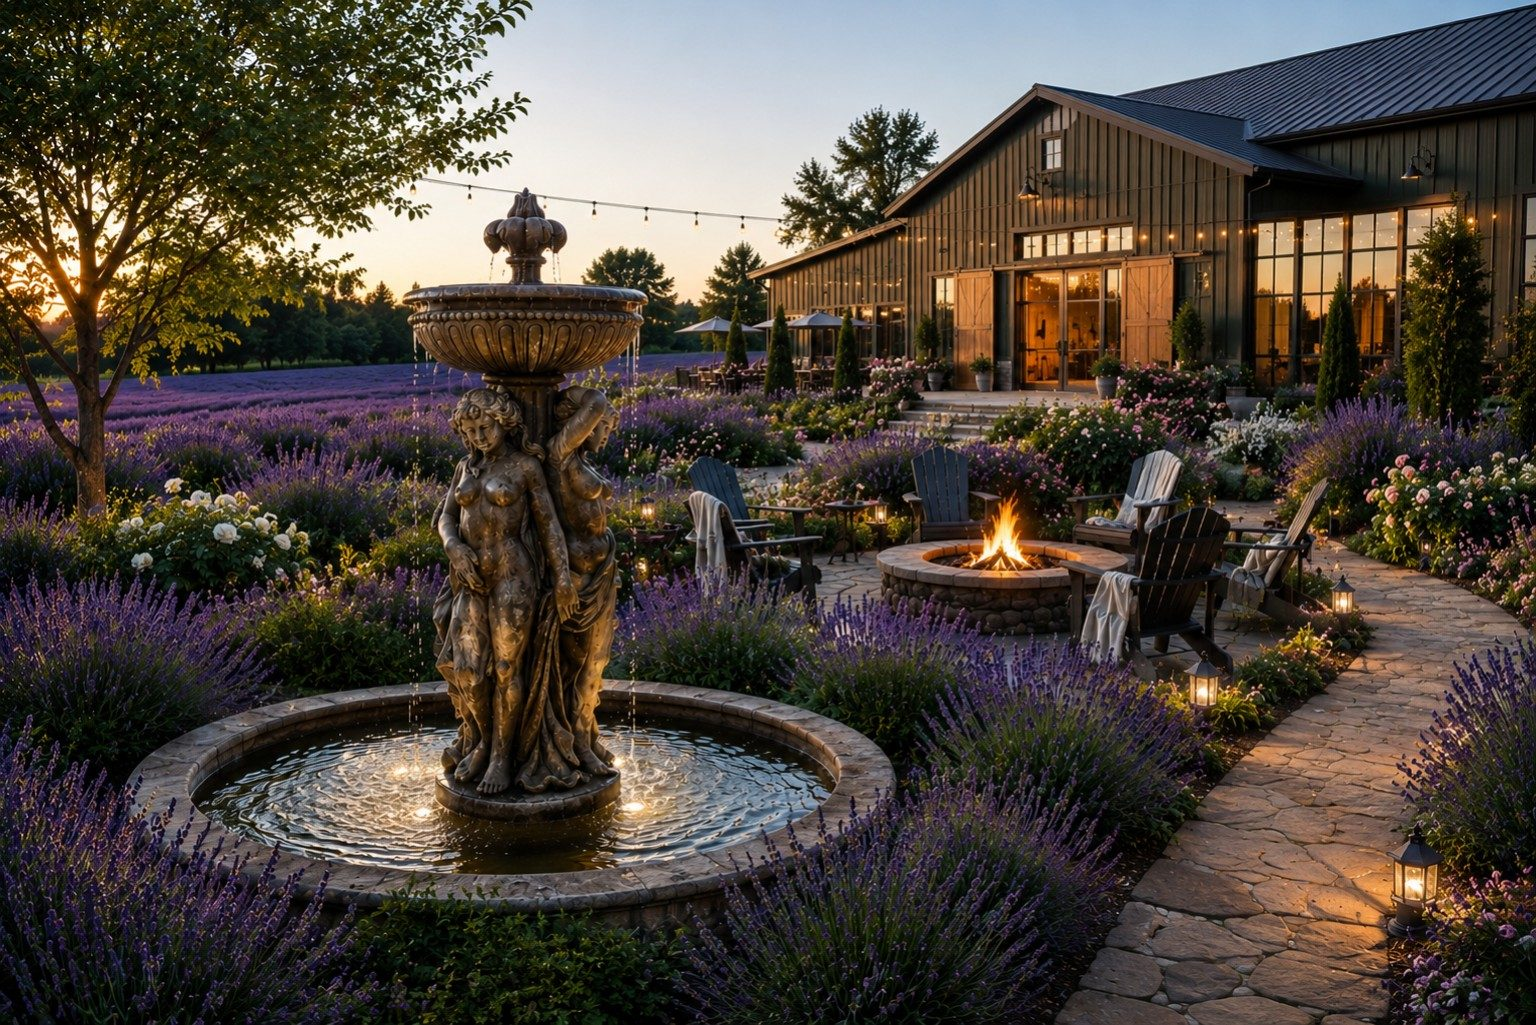
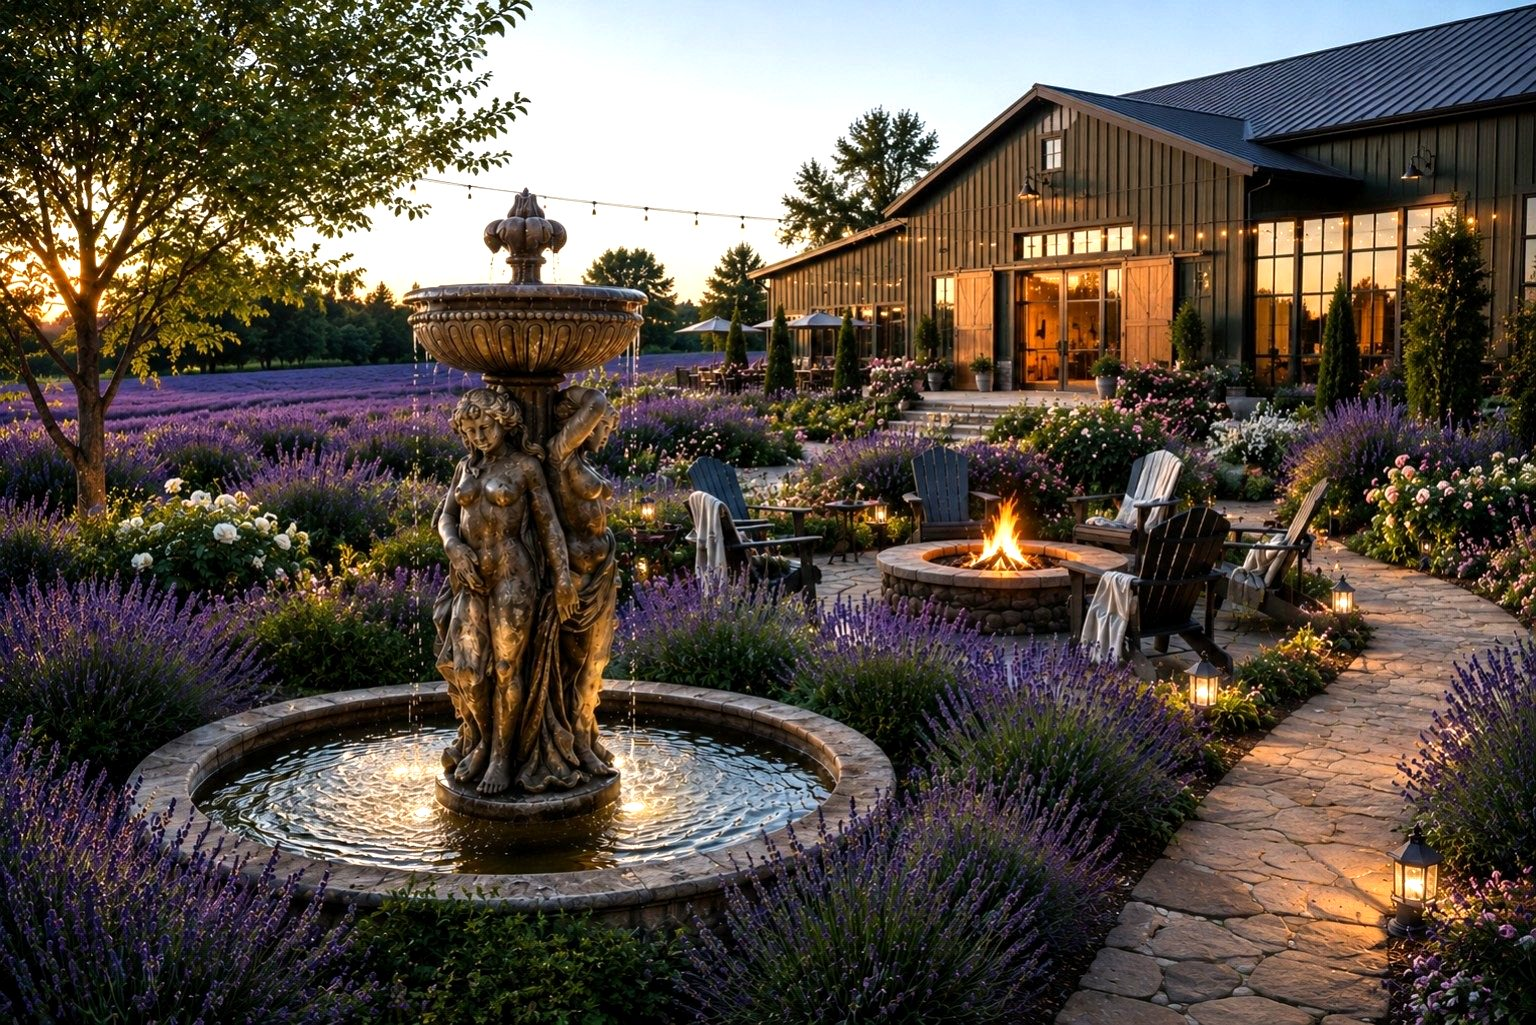
Scot's scanned corrections (10/12 2:15 PM): brighter Approach marina, PF coach-site image replaces sketch, home marina card photo, left-side hero shadow, lavender brightened + recaptioned, new tech description

diff --git a/index.html b/index.html
@@ -15,7 +15,7 @@
 <link rel="preconnect" href="https://fonts.googleapis.com">
 <link rel="preconnect" href="https://fonts.gstatic.com" crossorigin>
 <link href="https://fonts.googleapis.com/css2?family=Cormorant+Garamond:ital,wght@0,500;0,600;1,500&family=Inter:wght@400;500;600&display=swap" rel="stylesheet">
-<link rel="stylesheet" href="css/style.css?v=5">
+<link rel="stylesheet" href="css/style.css?v=6">
 </head>
 <body>
 <a class="sr-only" href="#main">Skip to content</a>
@@ -37,7 +37,7 @@
 </header>
 <main id="main">
 
-<section class="hero">
+<section class="hero hero-left">
   <div class="hero-media"><img src="images/hero-waterfront-ai.jpg" alt="Conceptual illustration of a boutique waterfront apartment building with boats at its private dock" fetchpriority="high"></div>
   <div class="wrap">
     <p class="eyebrow">Scot Kenney Acquisitions</p>
@@ -64,11 +64,11 @@
         <div class="body"><h3>Multifamily &amp; Income Properties</h3><p>From boutique properties to larger portfolios, we evaluate each acquisition on its merits, without arbitrary unit-count limits.</p></div>
       </article>
       <article class="focus-card reveal">
-        <div class="img type" aria-hidden="true"><svg viewBox="0 0 64 64"><g fill="none" stroke="currentColor" stroke-width="1.6" stroke-linecap="round" stroke-linejoin="round"><path d="M32 10v34"/><circle cx="32" cy="8" r="3"/><path d="M24 18h16"/><path d="M14 36c2 9 9 14 18 14s16-5 18-14"/><path d="M10 36l4 0M50 36l4 0"/><path d="M6 58c4 0 4-3 8-3s4 3 8 3 4-3 8-3 4 3 8 3 4-3 8-3 4 3 8 3 4-3 8-3"/></g></svg></div>
+        <div class="img"><img src="https://images.unsplash.com/photo-1730402733045-269e1b446856?auto=format&fit=crop&w=1200&q=70" alt="Aerial view of a marina beside waterfront residential buildings" loading="lazy"><span class="img-tag">Illustrative imagery</span></div>
         <div class="body"><h3>Waterfront &amp; Marina Opportunities</h3><p>Residential properties, dockage, marina-related assets, and other waterfront locations with multiple potential revenue sources.</p></div>
       </article>
       <article class="focus-card reveal">
-        <div class="img"><img src="images/owner-motorcoach-clubhouse-concept.jpg" alt="Conceptual illustration of a luxury motorcoach resort with a three-story black-glass clubhouse and pool" loading="lazy"><span class="img-tag">Conceptual illustration</span></div>
+        <div class="img"><img src="images/owner-motorcoach-clubhouse-concept.jpg" alt="Conceptual illustration of a luxury motorcoach resort with a three-story black-glass clubhouse and pool" loading="lazy"><span class="img-tag">Concept illustration</span></div>
         <div class="body"><h3>Distinctive RV Resorts</h3><p>Well-planned motorcoach and RV destinations emphasizing attractive environments, thoughtful amenities, and compelling guest experiences&mdash;not ordinary storage lots.</p></div>
       </article>
       <article class="focus-card reveal">

diff --git a/property-focus/index.html b/property-focus/index.html
@@ -15,7 +15,7 @@
 <link rel="preconnect" href="https://fonts.googleapis.com">
 <link rel="preconnect" href="https://fonts.gstatic.com" crossorigin>
 <link href="https://fonts.googleapis.com/css2?family=Cormorant+Garamond:ital,wght@0,500;0,600;1,500&family=Inter:wght@400;500;600&display=swap" rel="stylesheet">
-<link rel="stylesheet" href="../css/style.css?v=5">
+<link rel="stylesheet" href="../css/style.css?v=6">
 </head>
 <body>
 <a class="sr-only" href="#main">Skip to content</a>
@@ -66,12 +66,8 @@
       <div class="measure">
         <h2>Distinctive RV &amp; Motorcoach Destinations</h2>
         <p>We evaluate distinctive RV and motorcoach destinations where design, landscaping, hospitality, and amenities could create a compelling guest experience and additional revenue opportunities. As one example of our founder&rsquo;s creative approach, Scot Kenney conceived a luxury motorcoach resort with a dramatic three-story black-glass clubhouse, private-site amenities, dining, and cultural events; an architect prepared an illustration of his concept. This was a design concept, not a completed development.</p>
-        <div class="concept small">
-          <figure>
-            <div class="frame"><img src="../images/concept-motorcoach-resort.jpg" alt="Architect's concept illustration of a luxury motorcoach resort clubhouse" loading="lazy"></div>
-            <figcaption><strong>Concept illustration</strong>Original luxury motorcoach resort concept &mdash; envisioned by Scot Kenney; architectural illustration. Not a completed development.</figcaption>
-          </figure>
-        </div>
+        <div class="pf-media" style="margin-top:1.6rem;max-width:560px"><img src="../images/motorcoach-site-illustrative.jpg" alt="Illustrative image of a luxury Class A motorcoach on a landscaped private site with a cabana and plunge pool" loading="lazy"><span class="img-tag">Illustrative imagery</span></div>
+        <p class="muted" style="font-size:.88rem;margin-top:.6rem">Illustrative imagery; not a completed Scot Kenney Acquisitions project.</p>
       </div>
     </div>
 
@@ -84,7 +80,7 @@
       </div>
       <div>
         <h2>Next-Generation Technology Communities</h2>
-        <p>Scot Kenney Acquisitions is exploring an innovative residential community concept envisioned for professionals in the artificial intelligence and technology industries. The concept aims to address distinctive lifestyle preferences and residential needs we believe are underserved by conventional developments, with potential adaptability to multiple markets.</p>
+        <p>Exploring distinctive, technology-focused residential communities designed around the evolving lifestyles and requirements of professionals in artificial intelligence and other advanced industries.</p>
       </div>
     </div>
 

diff --git a/about/index.html b/about/index.html
@@ -15,7 +15,7 @@
 <link rel="preconnect" href="https://fonts.googleapis.com">
 <link rel="preconnect" href="https://fonts.gstatic.com" crossorigin>
 <link href="https://fonts.googleapis.com/css2?family=Cormorant+Garamond:ital,wght@0,500;0,600;1,500&family=Inter:wght@400;500;600&display=swap" rel="stylesheet">
-<link rel="stylesheet" href="../css/style.css?v=5">
+<link rel="stylesheet" href="../css/style.css?v=6">
 </head>
 <body>
 <a class="sr-only" href="#main">Skip to content</a>
@@ -64,8 +64,8 @@
       <h2>Creative Vision. Real Estate Opportunity.</h2>
     </div>
     <figure class="feature reveal">
-      <div class="split-media"><img src="../images/owner-blackfoot-lavender-retreat-concept.jpg" alt="Conceptual rendering of the Blackfoot Lavender Retreat: lavender fields, a fountain, fire pit and a dark board-and-batten event barn at dusk" loading="lazy"><span class="img-tag">Conceptual rendering</span></div>
-      <figcaption>Blackfoot Lavender Retreat &mdash; conceptual rendering. This is a rendering, not a photograph of completed work.</figcaption>
+      <div class="split-media"><img src="../images/owner-blackfoot-lavender-retreat-concept.jpg" alt="Conceptual rendering of lavender fields, a fountain, a fire pit and a barn-style building at dusk" loading="lazy"><span class="img-tag">Conceptual rendering</span></div>
+      <figcaption>Conceptual rendering: an illustrative vision of transforming land. Not a photograph of a completed company development.</figcaption>
     </figure>
   </div>
 </section>

diff --git a/css/style.css b/css/style.css
@@ -297,3 +297,12 @@ h3 { font-size: clamp(1.45rem, 2.2vw, 1.8rem); }
 .focus-card .img.type svg { width: 34%; height: auto; opacity: .9; }
 .feature { margin: 0; }
 .feature figcaption { margin-top: .8rem; font-size: .88rem; color: var(--ink-soft); }
+
+/* Scan corrections (Oct 12, 2:15 PM) */
+/* Home hero: restrained left-side shadow only, image stays bright */
+.hero.hero-left::after { background: linear-gradient(90deg, rgba(10,22,38,.75) 0%, rgba(10,22,38,.58) 40%, rgba(10,22,38,.2) 62%, rgba(10,22,38,0) 78%), linear-gradient(0deg, rgba(10,22,38,.35) 0%, rgba(10,22,38,0) 30%); }
+@media (max-width: 860px) { .hero.hero-left::after { background: linear-gradient(180deg, rgba(10,22,38,.25) 0%, rgba(10,22,38,.55) 40%, rgba(10,22,38,.78) 100%); } }
+/* Approach: bright marina, localized gradient behind the headline */
+.page-head.bright .hero-media img { filter: brightness(1.12) contrast(1.08) saturate(1.12); }
+.page-head.bright::after { background: linear-gradient(90deg, rgba(10,22,38,.62) 0%, rgba(10,22,38,.28) 40%, rgba(10,22,38,0) 68%), linear-gradient(0deg, rgba(10,22,38,.35) 0%, rgba(10,22,38,0) 45%); }
+@media (max-width: 860px) { .page-head.bright::after { background: linear-gradient(0deg, rgba(10,22,38,.7) 0%, rgba(10,22,38,.3) 55%, rgba(10,22,38,.1) 100%); } }

diff --git a/approach/index.html b/approach/index.html
@@ -15,7 +15,7 @@
 <link rel="preconnect" href="https://fonts.googleapis.com">
 <link rel="preconnect" href="https://fonts.gstatic.com" crossorigin>
 <link href="https://fonts.googleapis.com/css2?family=Cormorant+Garamond:ital,wght@0,500;0,600;1,500&family=Inter:wght@400;500;600&display=swap" rel="stylesheet">
-<link rel="stylesheet" href="../css/style.css?v=5">
+<link rel="stylesheet" href="../css/style.css?v=6">
 </head>
 <body>
 <a class="sr-only" href="#main">Skip to content</a>
@@ -37,7 +37,7 @@
 </header>
 <main id="main">
 
-<section class="page-head">
+<section class="page-head bright">
   <div class="hero-media"><img src="../images/marina-aerial.jpg" alt="Aerial view of a marina with boats at the docks"></div>
   <div class="wrap">
     <p class="eyebrow">Approach</p>

diff --git a/contact/index.html b/contact/index.html
@@ -15,7 +15,7 @@
 <link rel="preconnect" href="https://fonts.googleapis.com">
 <link rel="preconnect" href="https://fonts.gstatic.com" crossorigin>
 <link href="https://fonts.googleapis.com/css2?family=Cormorant+Garamond:ital,wght@0,500;0,600;1,500&family=Inter:wght@400;500;600&display=swap" rel="stylesheet">
-<link rel="stylesheet" href="../css/style.css?v=5">
+<link rel="stylesheet" href="../css/style.css?v=6">
 </head>
 <body>
 <a class="sr-only" href="#main">Skip to content</a>

diff --git a/website-notice/index.html b/website-notice/index.html
@@ -15,7 +15,7 @@
 <link rel="preconnect" href="https://fonts.googleapis.com">
 <link rel="preconnect" href="https://fonts.gstatic.com" crossorigin>
 <link href="https://fonts.googleapis.com/css2?family=Cormorant+Garamond:ital,wght@0,500;0,600;1,500&family=Inter:wght@400;500;600&display=swap" rel="stylesheet">
-<link rel="stylesheet" href="../css/style.css?v=5">
+<link rel="stylesheet" href="../css/style.css?v=6">
 </head>
 <body>
 <a class="sr-only" href="#main">Skip to content</a>

diff --git a/404.html b/404.html
@@ -15,7 +15,7 @@
 <link rel="preconnect" href="https://fonts.googleapis.com">
 <link rel="preconnect" href="https://fonts.gstatic.com" crossorigin>
 <link href="https://fonts.googleapis.com/css2?family=Cormorant+Garamond:ital,wght@0,500;0,600;1,500&family=Inter:wght@400;500;600&display=swap" rel="stylesheet">
-<link rel="stylesheet" href="/css/style.css?v=5">
+<link rel="stylesheet" href="/css/style.css?v=6">
 </head>
 <body>
 <a class="sr-only" href="#main">Skip to content</a>

diff --git a/tools/build_pages.py b/tools/build_pages.py
@@ -23,6 +23,8 @@ IMG = {
     "rv":          "images/owner-motorcoach-clubhouse-concept.jpg",      # owner-supplied Image A
     "residential": "images/concept-community-entrance.jpg",              # owner-supplied Vue entrance rendering
     "approach":    "images/marina-aerial.jpg",                           # owner's original Expertise-page marina aerial
+    "marina":      img("1730402733045-269e1b446856", 1200),             # home waterfront card (scan item 3)
+    "coachsite":   "images/motorcoach-site-illustrative.jpg",            # PF RV image (scan item 2)
     "lavender":    "images/owner-blackfoot-lavender-retreat-concept.jpg",# owner-supplied Image B
 }
 def P(r, key):
@@ -58,7 +60,7 @@ def head(r, title, desc, current):
 <link rel="preconnect" href="https://fonts.googleapis.com">
 <link rel="preconnect" href="https://fonts.gstatic.com" crossorigin>
 <link href="https://fonts.googleapis.com/css2?family=Cormorant+Garamond:ital,wght@0,500;0,600;1,500&family=Inter:wght@400;500;600&display=swap" rel="stylesheet">
-<link rel="stylesheet" href="{r}css/style.css?v=5">
+<link rel="stylesheet" href="{r}css/style.css?v=6">
 </head>
 <body>
 <a class="sr-only" href="#main">Skip to content</a>
@@ -139,7 +141,7 @@ def home():
     r = ""
     h = head(r, "Home", "Scot Kenney Acquisitions identifies distinctive real estate opportunities where thoughtful acquisitions, operational improvements, and creative development strategies may unlock long-term value.", "")
     body = f"""
-<section class="hero">
+<section class="hero hero-left">
   <div class="hero-media"><img src="{P(r, 'hero')}" alt="Conceptual illustration of a boutique waterfront apartment building with boats at its private dock" fetchpriority="high"></div>
   <div class="wrap">
     <p class="eyebrow">Scot Kenney Acquisitions</p>
@@ -166,11 +168,11 @@ def home():
         <div class="body"><h3>Multifamily &amp; Income Properties</h3><p>From boutique properties to larger portfolios, we evaluate each acquisition on its merits, without arbitrary unit-count limits.</p></div>
       </article>
       <article class="focus-card reveal">
-        <div class="img type" aria-hidden="true"><svg viewBox="0 0 64 64"><g fill="none" stroke="currentColor" stroke-width="1.6" stroke-linecap="round" stroke-linejoin="round"><path d="M32 10v34"/><circle cx="32" cy="8" r="3"/><path d="M24 18h16"/><path d="M14 36c2 9 9 14 18 14s16-5 18-14"/><path d="M10 36l4 0M50 36l4 0"/><path d="M6 58c4 0 4-3 8-3s4 3 8 3 4-3 8-3 4 3 8 3 4-3 8-3 4 3 8 3 4-3 8-3"/></g></svg></div>
+        <div class="img"><img src="{P(r, 'marina')}" alt="Aerial view of a marina beside waterfront residential buildings" loading="lazy"><span class="img-tag">Illustrative imagery</span></div>
         <div class="body"><h3>Waterfront &amp; Marina Opportunities</h3><p>Residential properties, dockage, marina-related assets, and other waterfront locations with multiple potential revenue sources.</p></div>
       </article>
       <article class="focus-card reveal">
-        <div class="img"><img src="{P(r, 'rv')}" alt="Conceptual illustration of a luxury motorcoach resort with a three-story black-glass clubhouse and pool" loading="lazy"><span class="img-tag">Conceptual illustration</span></div>
+        <div class="img"><img src="{P(r, 'rv')}" alt="Conceptual illustration of a luxury motorcoach resort with a three-story black-glass clubhouse and pool" loading="lazy"><span class="img-tag">Concept illustration</span></div>
         <div class="body"><h3>Distinctive RV Resorts</h3><p>Well-planned motorcoach and RV destinations emphasizing attractive environments, thoughtful amenities, and compelling guest experiences&mdash;not ordinary storage lots.</p></div>
       </article>
       <article class="focus-card reveal">
@@ -213,7 +215,7 @@ def approach():
     r = "../"
     h = head(r, "Approach", "An opportunity-driven acquisition philosophy: identify, underwrite, structure, execute, reassess.", "approach/")
     body = f"""
-<section class="page-head">
+<section class="page-head bright">
   <div class="hero-media"><img src="{P(r, 'approach')}" alt="Aerial view of a marina with boats at the docks"></div>
   <div class="wrap">
     <p class="eyebrow">Approach</p>
@@ -285,12 +287,8 @@ def property_focus():
       <div class="measure">
         <h2>Distinctive RV &amp; Motorcoach Destinations</h2>
         <p>We evaluate distinctive RV and motorcoach destinations where design, landscaping, hospitality, and amenities could create a compelling guest experience and additional revenue opportunities. As one example of our founder&rsquo;s creative approach, Scot Kenney conceived a luxury motorcoach resort with a dramatic three-story black-glass clubhouse, private-site amenities, dining, and cultural events; an architect prepared an illustration of his concept. This was a design concept, not a completed development.</p>
-        <div class="concept small">
-          <figure>
-            <div class="frame">{concept_slot("motorcoach")}</div>
-            <figcaption><strong>Concept illustration</strong>Original luxury motorcoach resort concept &mdash; envisioned by Scot Kenney; architectural illustration. Not a completed development.</figcaption>
-          </figure>
-        </div>
+        <div class="pf-media" style="margin-top:1.6rem;max-width:560px"><img src="{P(r, 'coachsite')}" alt="Illustrative image of a luxury Class A motorcoach on a landscaped private site with a cabana and plunge pool" loading="lazy"><span class="img-tag">Illustrative imagery</span></div>
+        <p class="muted" style="font-size:.88rem;margin-top:.6rem">Illustrative imagery; not a completed Scot Kenney Acquisitions project.</p>
       </div>
     </div>
 
@@ -303,7 +301,7 @@ def property_focus():
       </div>
       <div>
         <h2>Next-Generation Technology Communities</h2>
-        <p>Scot Kenney Acquisitions is exploring an innovative residential community concept envisioned for professionals in the artificial intelligence and technology industries. The concept aims to address distinctive lifestyle preferences and residential needs we believe are underserved by conventional developments, with potential adaptability to multiple markets.</p>
+        <p>Exploring distinctive, technology-focused residential communities designed around the evolving lifestyles and requirements of professionals in artificial intelligence and other advanced industries.</p>
       </div>
     </div>
 
@@ -361,8 +359,8 @@ def about():
       <h2>Creative Vision. Real Estate Opportunity.</h2>
     </div>
     <figure class="feature reveal">
-      <div class="split-media"><img src="{P(r, 'lavender')}" alt="Conceptual rendering of the Blackfoot Lavender Retreat: lavender fields, a fountain, fire pit and a dark board-and-batten event barn at dusk" loading="lazy"><span class="img-tag">Conceptual rendering</span></div>
-      <figcaption>Blackfoot Lavender Retreat &mdash; conceptual rendering. This is a rendering, not a photograph of completed work.</figcaption>
+      <div class="split-media"><img src="{P(r, 'lavender')}" alt="Conceptual rendering of lavender fields, a fountain, a fire pit and a barn-style building at dusk" loading="lazy"><span class="img-tag">Conceptual rendering</span></div>
+      <figcaption>Conceptual rendering: an illustrative vision of transforming land. Not a photograph of a completed company development.</figcaption>
     </figure>
   </div>
 </section>

diff --git a/IMAGE_SOURCES.md b/IMAGE_SOURCES.md
@@ -34,3 +34,16 @@ Preview: https://dantekenney-max.github.io/scot-kenney-acquisitions/  (live doma
 - [x] Preview link + this list of replaced/removed/retained images.
 
 No offering language, return targets, investor minimums or regulatory claims were added.
+
+---
+# Round 3 — Scot's scanned "Final website image and presentation corrections" (email Mon 10/12/2026 2:15 PM)
+| # | Item | Result | Source / license | Label |
+|---|---|---|---|---|
+| 1 | Approach: brighten marina hero | Kept marina aerial + headline; overlay reduced to a localized left/bottom gradient; image brightness/contrast/saturation raised | Owner's original site asset | "Illustrative imagery" (kept) |
+| 2 | Property Focus RV: replace photographed sketch | Sketch removed; replaced with an illustrative luxury Class A coach on a landscaped private site with cabana and plunge pool (no clubhouse, not the homepage rendering) | AI-generated for this site (ChatGPT); no free licensed stock photo of a premium Class A resort exists | "Illustrative imagery" + "not a completed Scot Kenney Acquisitions project" |
+| 3 | Home waterfront card: replace dark anchor square | Aerial marina beside waterfront residential buildings (different scene from the hero) | Unsplash `1730402733045-269e1b446856` — Avi Werde — https://unsplash.com/photos/an-aerial-view-of-a-marina-and-hotels-IrgZZa57A7E (Unsplash License) | "Illustrative imagery" |
+| 4 | Home hero legibility | Kept image; restrained left-side shadow only (stronger overall overlay only on phones, where text spans the full width) | — | "Conceptual illustration" (kept) |
+| 5 | Home concept images | Kept clubhouse and Vue images; labels unified to "Concept illustration" | Owner-supplied | "Concept illustration" |
+| 6 | About creative-vision image | Lavender rendering brightened; caption now "illustrative vision of transforming land, not a completed company development"; no separate lavender business section | Owner-supplied | "Conceptual rendering" |
+| 7 | Property Focus tech description | Replaced with the owner's new wording verbatim; Vue image kept | Owner-supplied | "Concept illustration" |
+| 8 | Final checks | See verification in session notes (deployed URL, all images, desktop + phone) | — | — |
